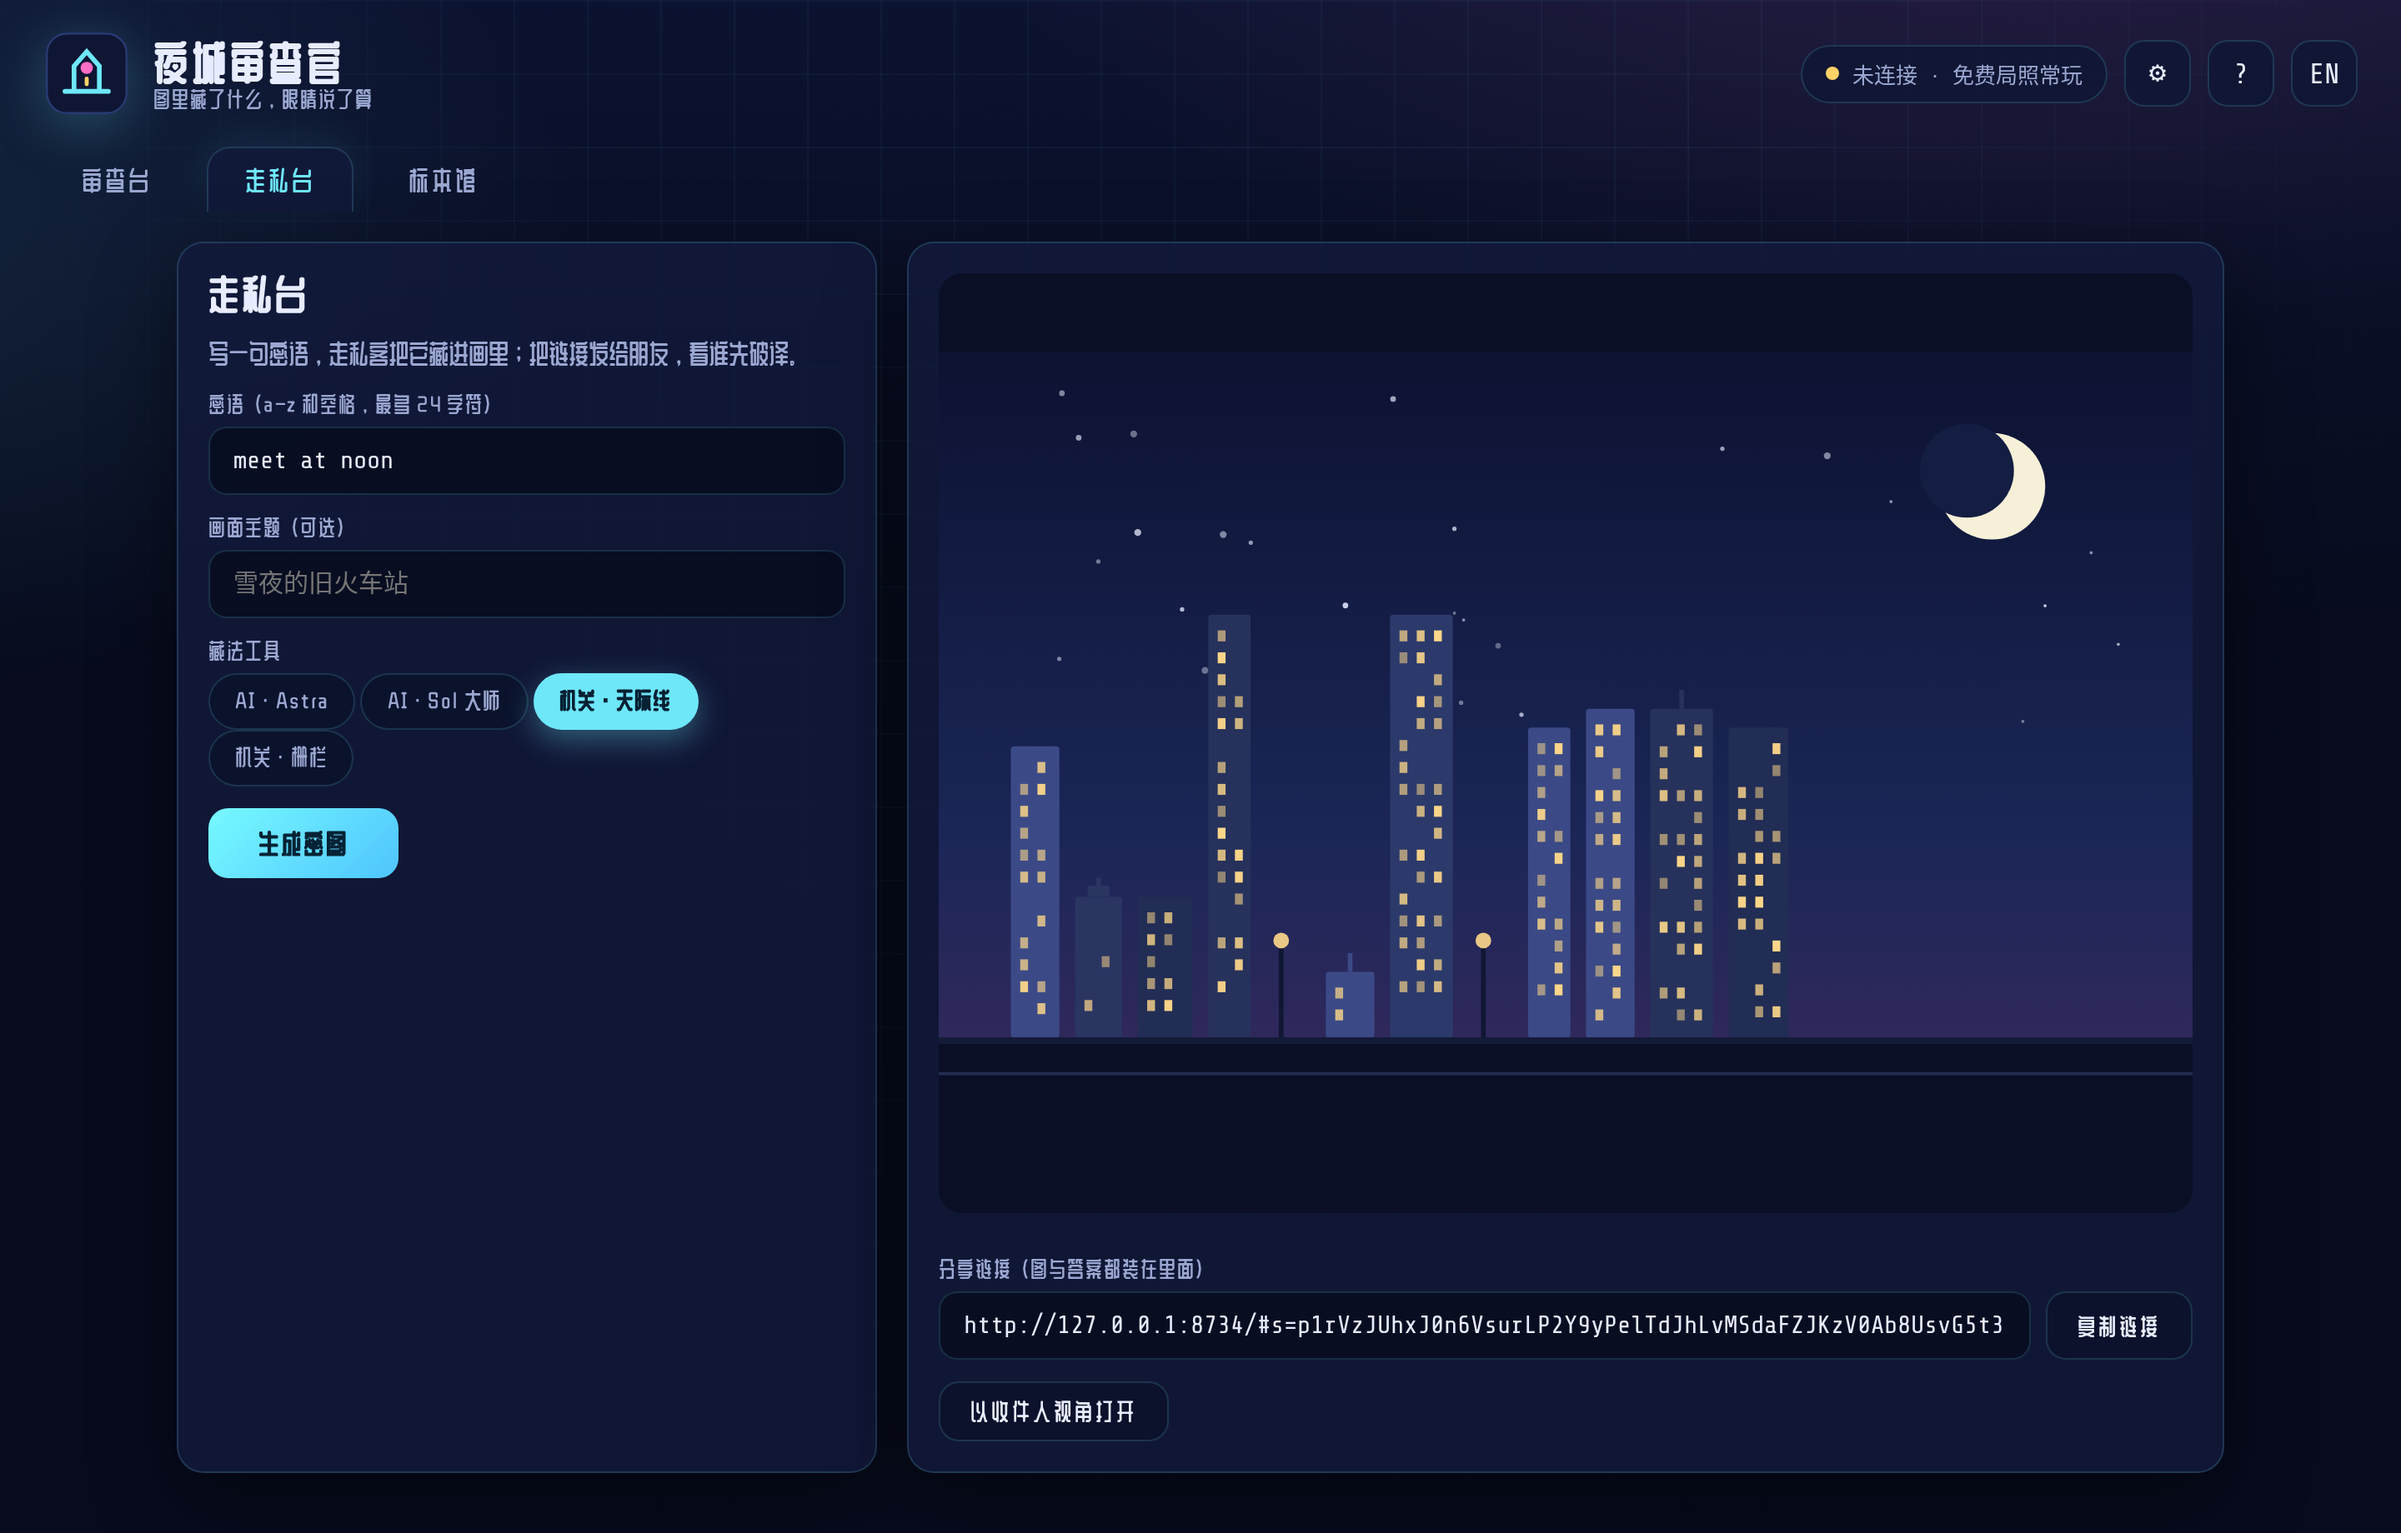
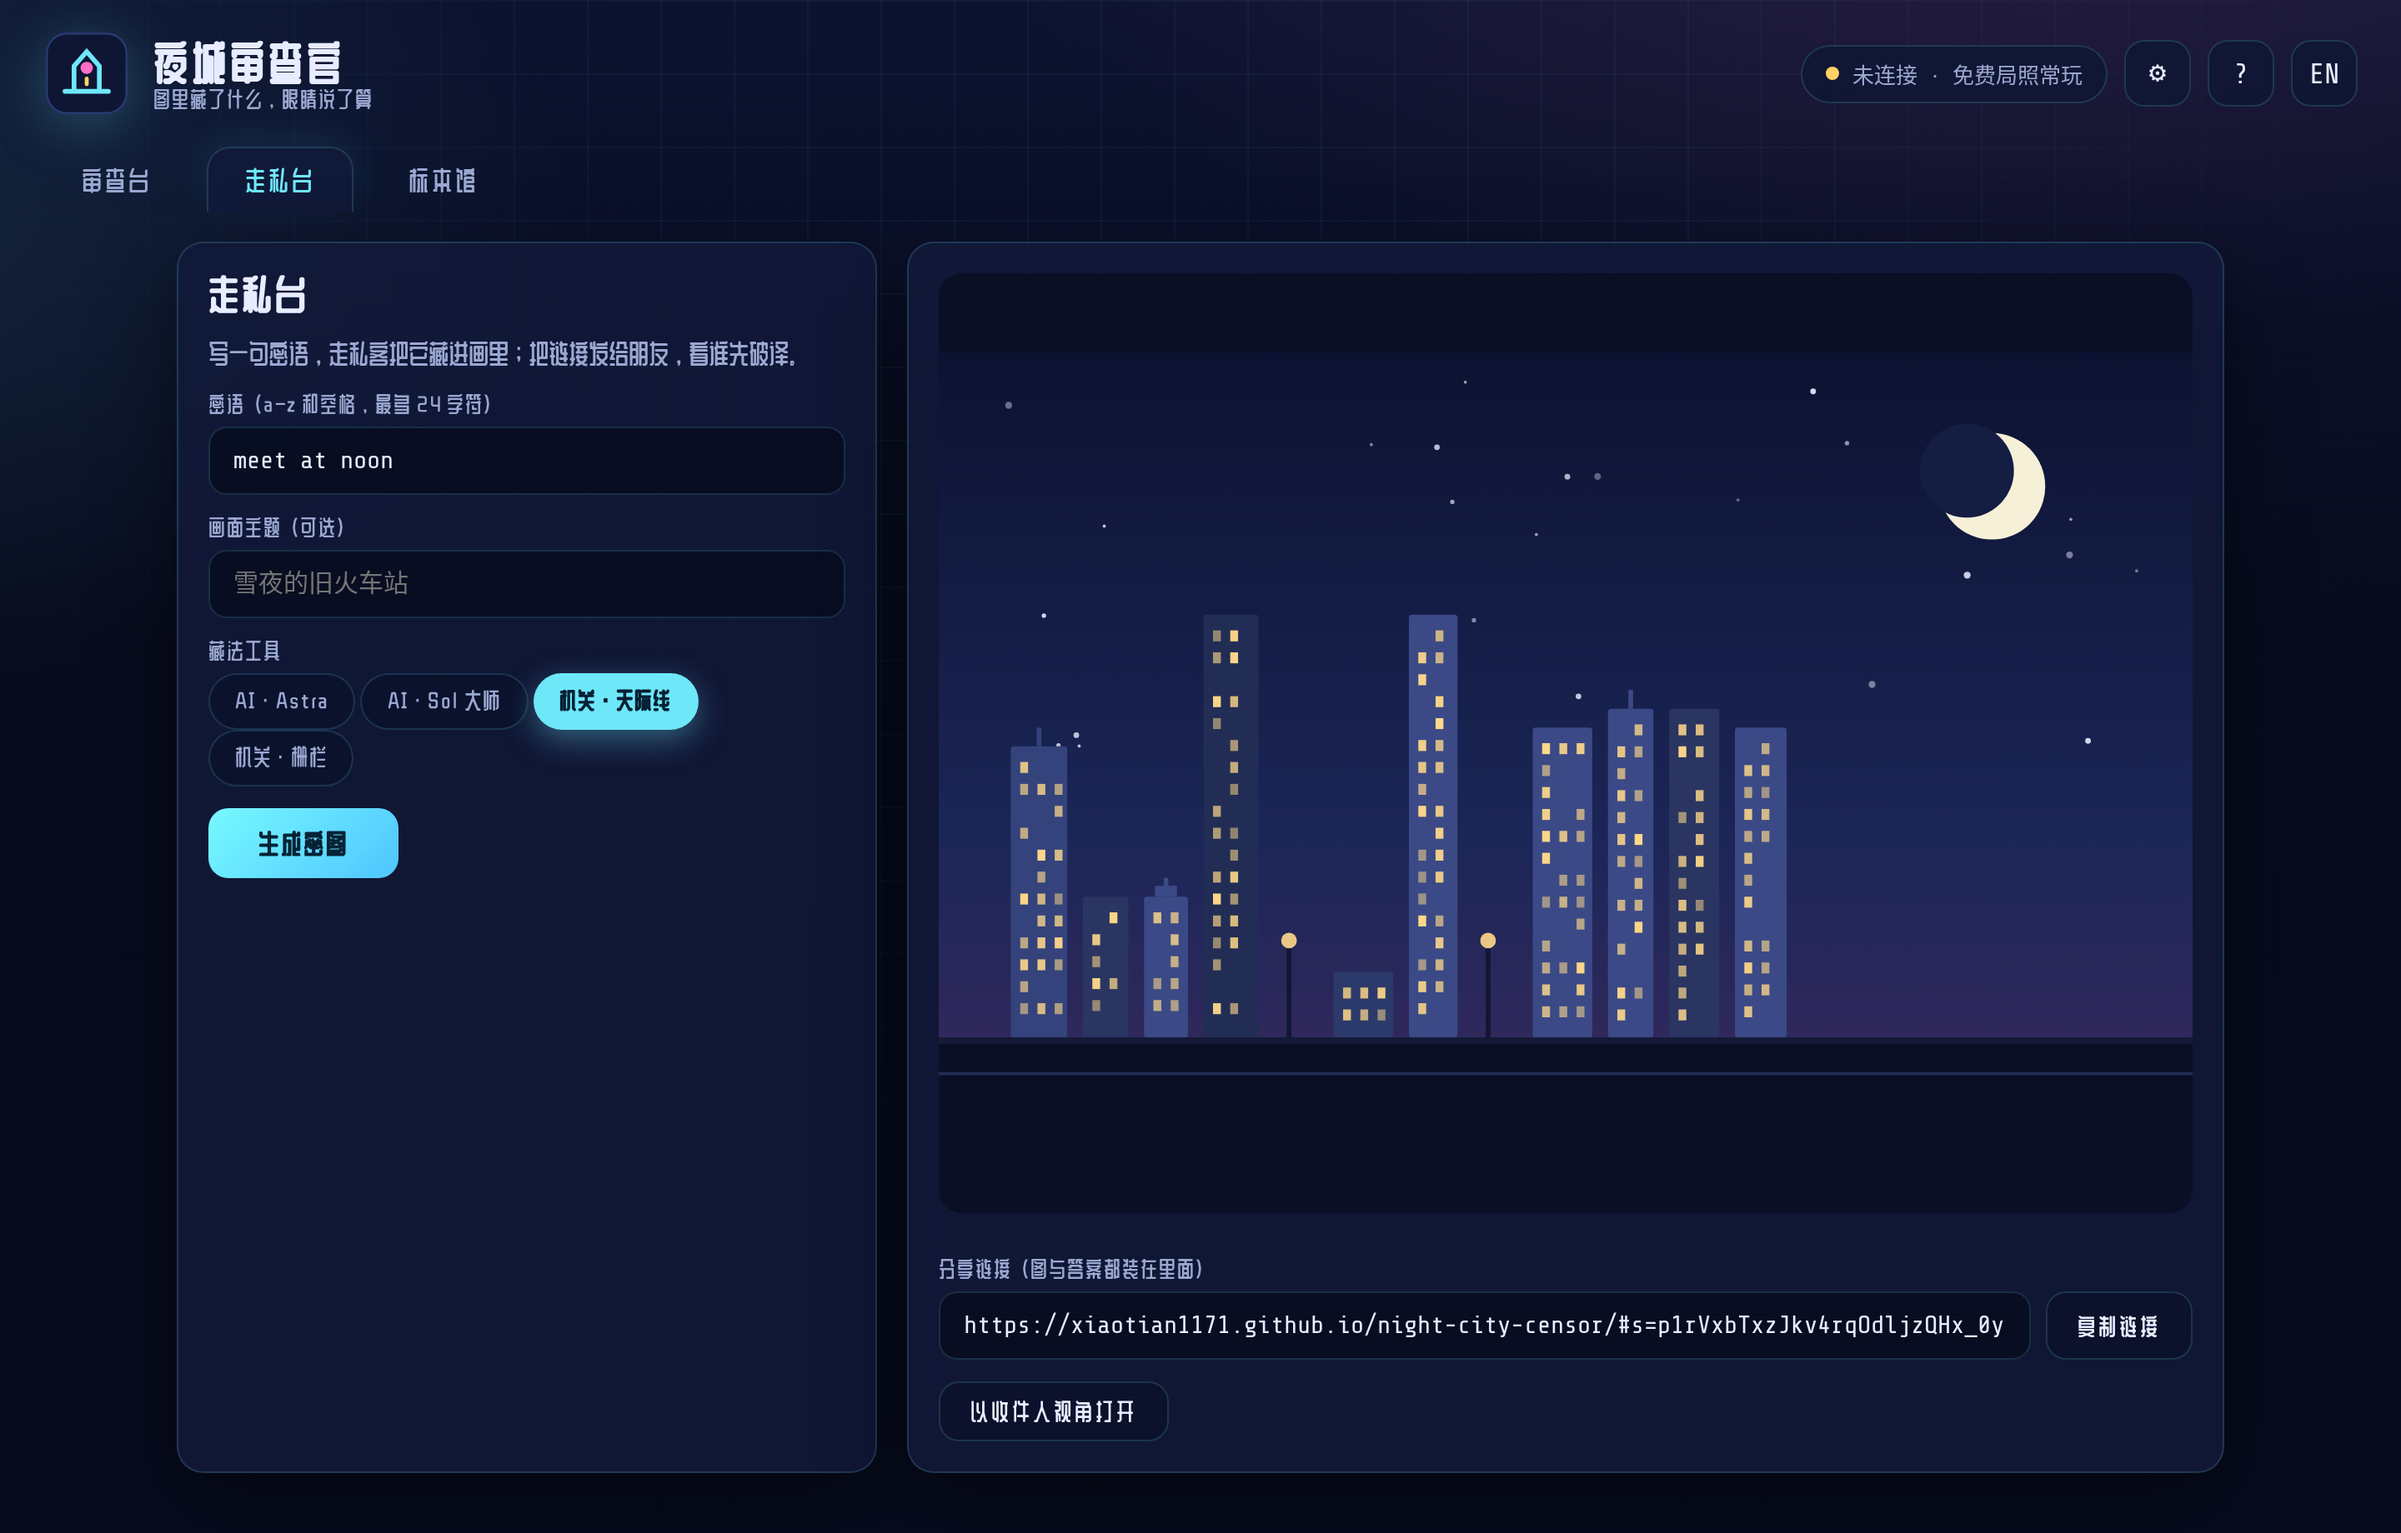
auto-detect UI language (zh browsers -> zh, else en); bilingual score labels

diff --git a/js/app.js b/js/app.js
@@ -346,10 +346,12 @@ function computeScores() {
   return { rows, hS, aS, hV, aV, hD, aD, n: cards.length };
 }
 
+function cardLabel(i) { return (getLang() === 'zh' ? '卡' : 'C') + (i + 1); }
+
 function showScore() {
   const sc = computeScores();
   const who = t('desk.censor' + state.censor[0].toUpperCase() + state.censor.slice(1));
-  const verdictLine = sc.rows.map(r => `卡${r.i + 1} ${r.hEmoji} vs ${r.aEmoji}`).join('  ');
+  const verdictLine = sc.rows.map(r => `${cardLabel(r.i)} ${r.hEmoji} vs ${r.aEmoji}`).join('  ');
   const headline = sc.hS > sc.aS ? t('score.win') : sc.hS < sc.aS ? t('score.lose') : t('score.tie');
   const body = $('#scoreBody');
   body.innerHTML = `
@@ -365,7 +367,7 @@ function showScore() {
 function scoreText() {
   const sc = computeScores();
   const who = t('desk.censor' + state.censor[0].toUpperCase() + state.censor.slice(1));
-  const verdictLine = sc.rows.map(r => `卡${r.i + 1} ${r.hEmoji} vs ${r.aEmoji}`).join(' ');
+  const verdictLine = sc.rows.map(r => `${cardLabel(r.i)} ${r.hEmoji} vs ${r.aEmoji}`).join(' ');
   const headline = sc.hS > sc.aS ? t('score.win') : sc.hS < sc.aS ? t('score.lose') : t('score.tie');
   return `🏮 ${t('app.title')} · ${t('score.title')}\n${verdictLine}\n${t('score.you')} ${sc.hS} ⚡ AI(${who}) ${sc.aS}\n${headline}`;
 }
@@ -602,7 +604,7 @@ function checkReceiver() {
   const grade = decodeGrade(v, receiverPayload.msg);
   const fb = $('#rcvFeedback');
   if (grade === 'exact' || grade === 'close') {
-    fb.textContent = t('smug.right') + (grade === 'close' ? '（差一点）' : '') + ` — “${receiverPayload.msg}”`;
+    fb.textContent = t('smug.right') + (grade === 'close' ? (getLang() === 'zh' ? '（差一点）' : ' (close)') : '') + ` — “${receiverPayload.msg}”`;
     fb.className = 'feedback ok';
   } else {
     fb.textContent = t('smug.wrong');
@@ -660,6 +662,14 @@ function showView(name) {
 
 // ============ boot ============
 function boot() {
+  // default language: zh for Chinese browsers, en otherwise; persist choice
+  try {
+    const saved = localStorage.getItem('ncc:lang');
+    if (saved === 'zh' || saved === 'en') setLang(saved);
+    else setLang((navigator.language || 'en').toLowerCase().startsWith('zh') ? 'zh' : 'en');
+  } catch {}
+  $('#btnLang').textContent = getLang() === 'zh' ? 'EN' : '中';
+  document.documentElement.lang = getLang() === 'zh' ? 'zh' : 'en';
   applyLang();
   updatePill();
   updateCost();
@@ -670,6 +680,7 @@ function boot() {
   // lang
   $('#btnLang').addEventListener('click', () => {
     setLang(getLang() === 'zh' ? 'en' : 'zh');
+    try { localStorage.setItem('ncc:lang', getLang()); } catch {}
     $('#btnLang').textContent = getLang() === 'zh' ? 'EN' : '中';
     document.documentElement.lang = getLang() === 'zh' ? 'zh' : 'en';
     applyLang();
